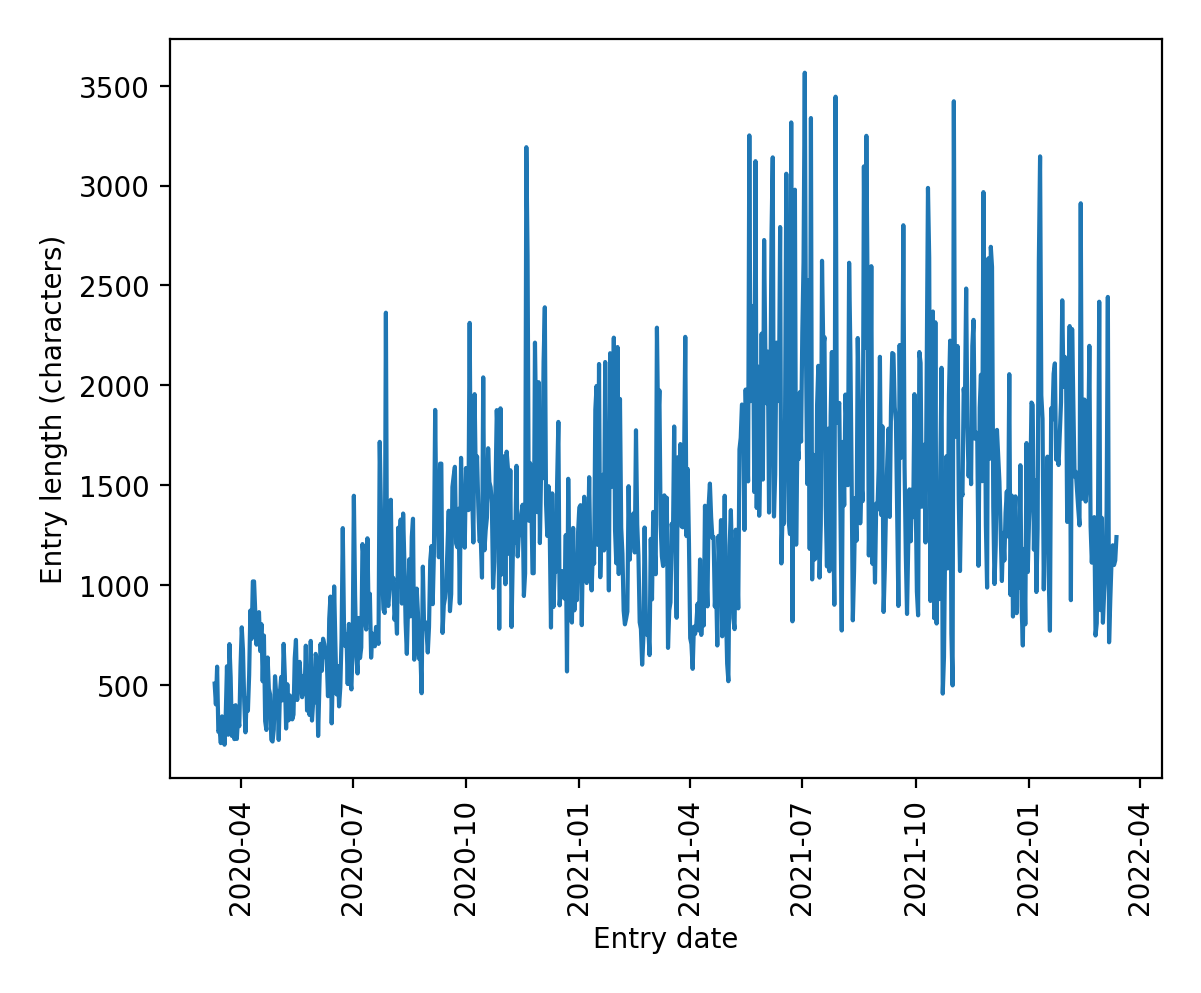
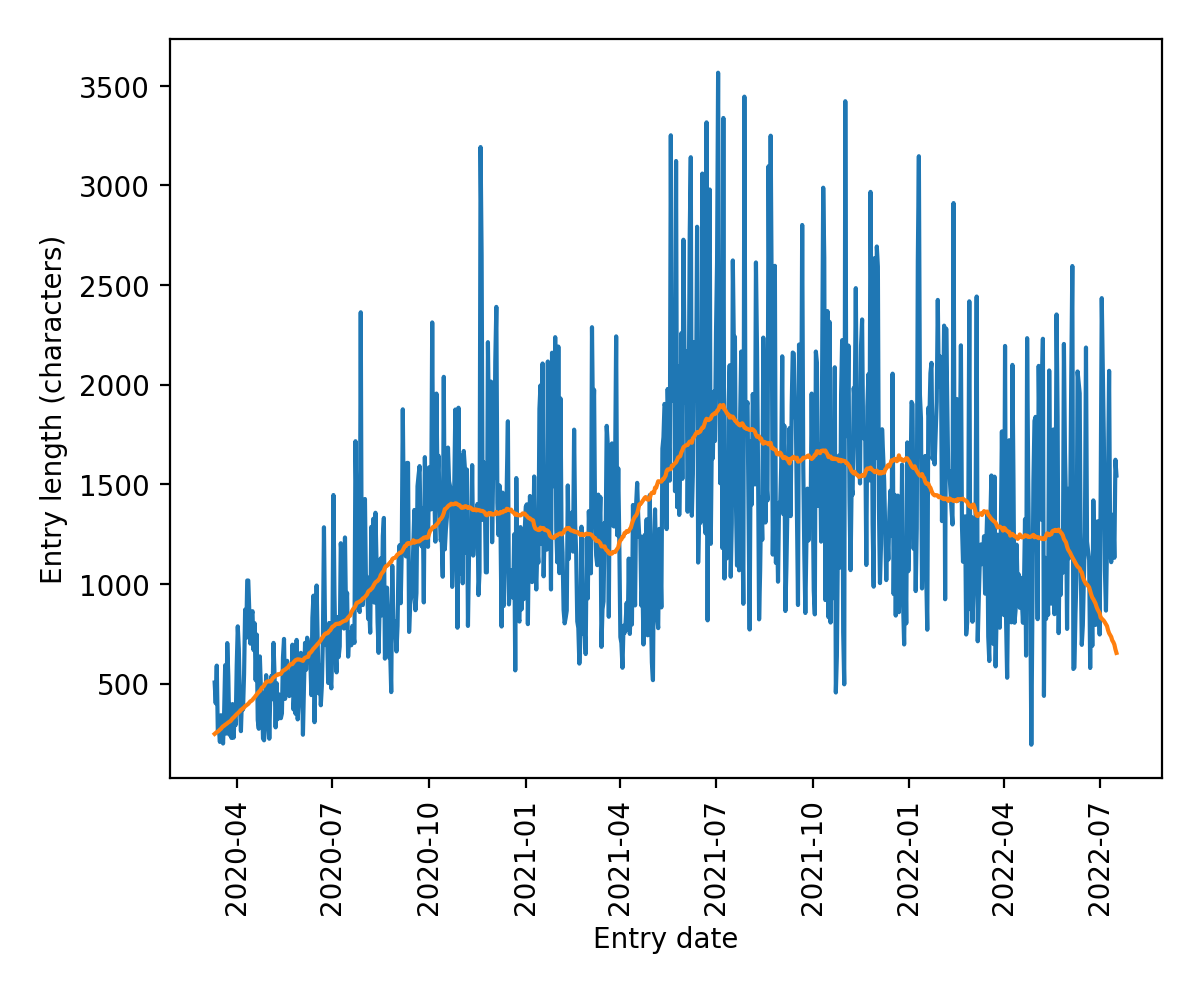
Update corpus and add name frequency tracking

diff --git a/process_journal.py b/process_journal.py
@@ -17,6 +17,7 @@ import matplotlib.dates as mdates
 from matplotlib.dates import DateFormatter
 from wordcloud import WordCloud
 import argparse
+import collections
 
 
 parser = argparse.ArgumentParser()
@@ -30,6 +31,7 @@ parser.add_argument('--readability', default=False, required=False, action='stor
 parser.add_argument('--sentiment', default=False, required=False, action='store_true', help="Print mean sentence sentiment")
 parser.add_argument('--entryLengths', default=False, required=False, action='store_true', help="Plot entry lengths over time")
 parser.add_argument('--wordcloud', default=False, required=False, action='store_true', help="Generate content word wordcloud")
+parser.add_argument('--nameFrequencies', default=False, required=False, action='store_true', help="Plot mentioned names by frequency")
 
 
 def parse_entries(journalPath, dateFormat):
@@ -91,8 +93,14 @@ def get_timestamps(timestampDict, sortedDates):
 		timestamps.append(timestampDict[date])
 	return timestamps
 
+def get_moving_average(interval, window):
+    window = np.ones(int(window))/float(window)
+    return np.convolve(interval, window, 'same')
+
 def plot_entry_lengths(sortedDates, entryLengths):
 	plt.plot(sortedDates, entryLengths)
+	y_av = get_moving_average(entryLengths, window=100)
+	plt.plot(sortedDates, y_av)
 	plt.xticks(rotation='vertical')
 	plt.xlabel("Entry date")
 	plt.ylabel("Entry length (characters)")
@@ -200,6 +208,22 @@ def plot_wordcloud(wordcloud):
 	plt.axis("off")
 	return plt.plot
 
+def get_name_frequencies(text, number):
+	names = []
+	for sent in nltk.sent_tokenize(text):
+		for chunk in nltk.ne_chunk(nltk.pos_tag(nltk.word_tokenize(sent))):
+			if hasattr(chunk, 'label'):
+				names.append(' '.join(c[0] for c in chunk.leaves()))
+	nameFrequencies = dict(collections.Counter(names).most_common(number))
+	return nameFrequencies
+
+def plot_name_frequencies(nameFrequencies):
+	plt.bar(nameFrequencies.keys(), nameFrequencies.values())
+	plt.xticks(rotation='vertical')
+	plt.xlabel("Name")
+	plt.ylabel("Frequency")
+	return plt.plot
+
 if __name__ == "__main__":
 	args = parser.parse_args()
 
@@ -207,6 +231,11 @@ if __name__ == "__main__":
 	entryDict, timestampDict, sortedDates = parse_entries(os.path.abspath(args.journalPath), dateFormat)
 	text = get_text(entryDict)
 	textName = 'text'
+
+	if args.nameFrequencies:
+		nameFrequencies = get_name_frequencies(text, number=20)
+		plot_name_frequencies(nameFrequencies)
+		save_figure('name_frequencies')
 
 	if args.timestamps:
 		timestampDict = parse_timestamps(args.journalPath, dateFormat)
